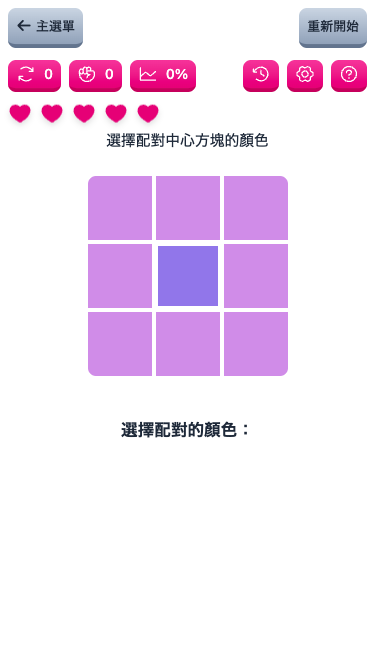
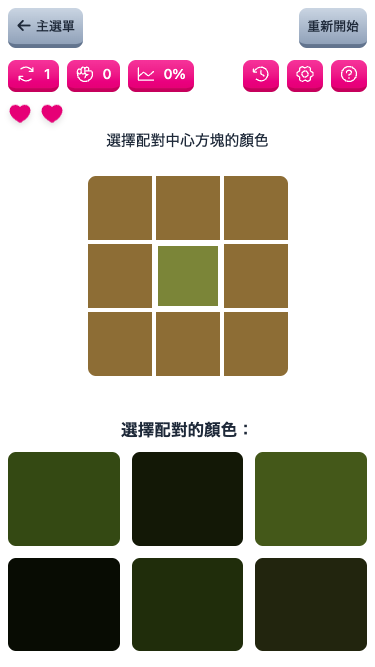
feat: add initialization logic for contextual game mode on component mount (#58)
* feat: add initialization logic for contextual game mode on component mount

* chore: update screenshots

* fix: remove duplicate imports in ContextGameScreen.vue

diff --git a/src/components/ContextGameScreen.vue b/src/components/ContextGameScreen.vue
@@ -1,4 +1,5 @@
 <script setup>
+import { onMounted, reactive, ref, watch } from "vue";
 import { useGlobalGameState } from "../gameState";
 import GameNavBar from "./GameNavBar.vue";
 
@@ -14,6 +15,18 @@ const surroundingColor = reactive({
 	h: 0,
 	s: 0,
 	v: 0,
+});
+
+// Add initialization logic when component mounts
+onMounted(() => {
+	if (state.gameType !== "contextual") {
+		state.updateGameType("contextual");
+		state.startOver(); // This will initialize the game mode and start a round
+	}
+	// If we're already in contextual mode but don't have options, just start a new round
+	else if (!state.colorOptions || state.colorOptions.length === 0) {
+		state.startNewRound();
+	}
 });
 
 // Generate surrounding color with controlled contrast
